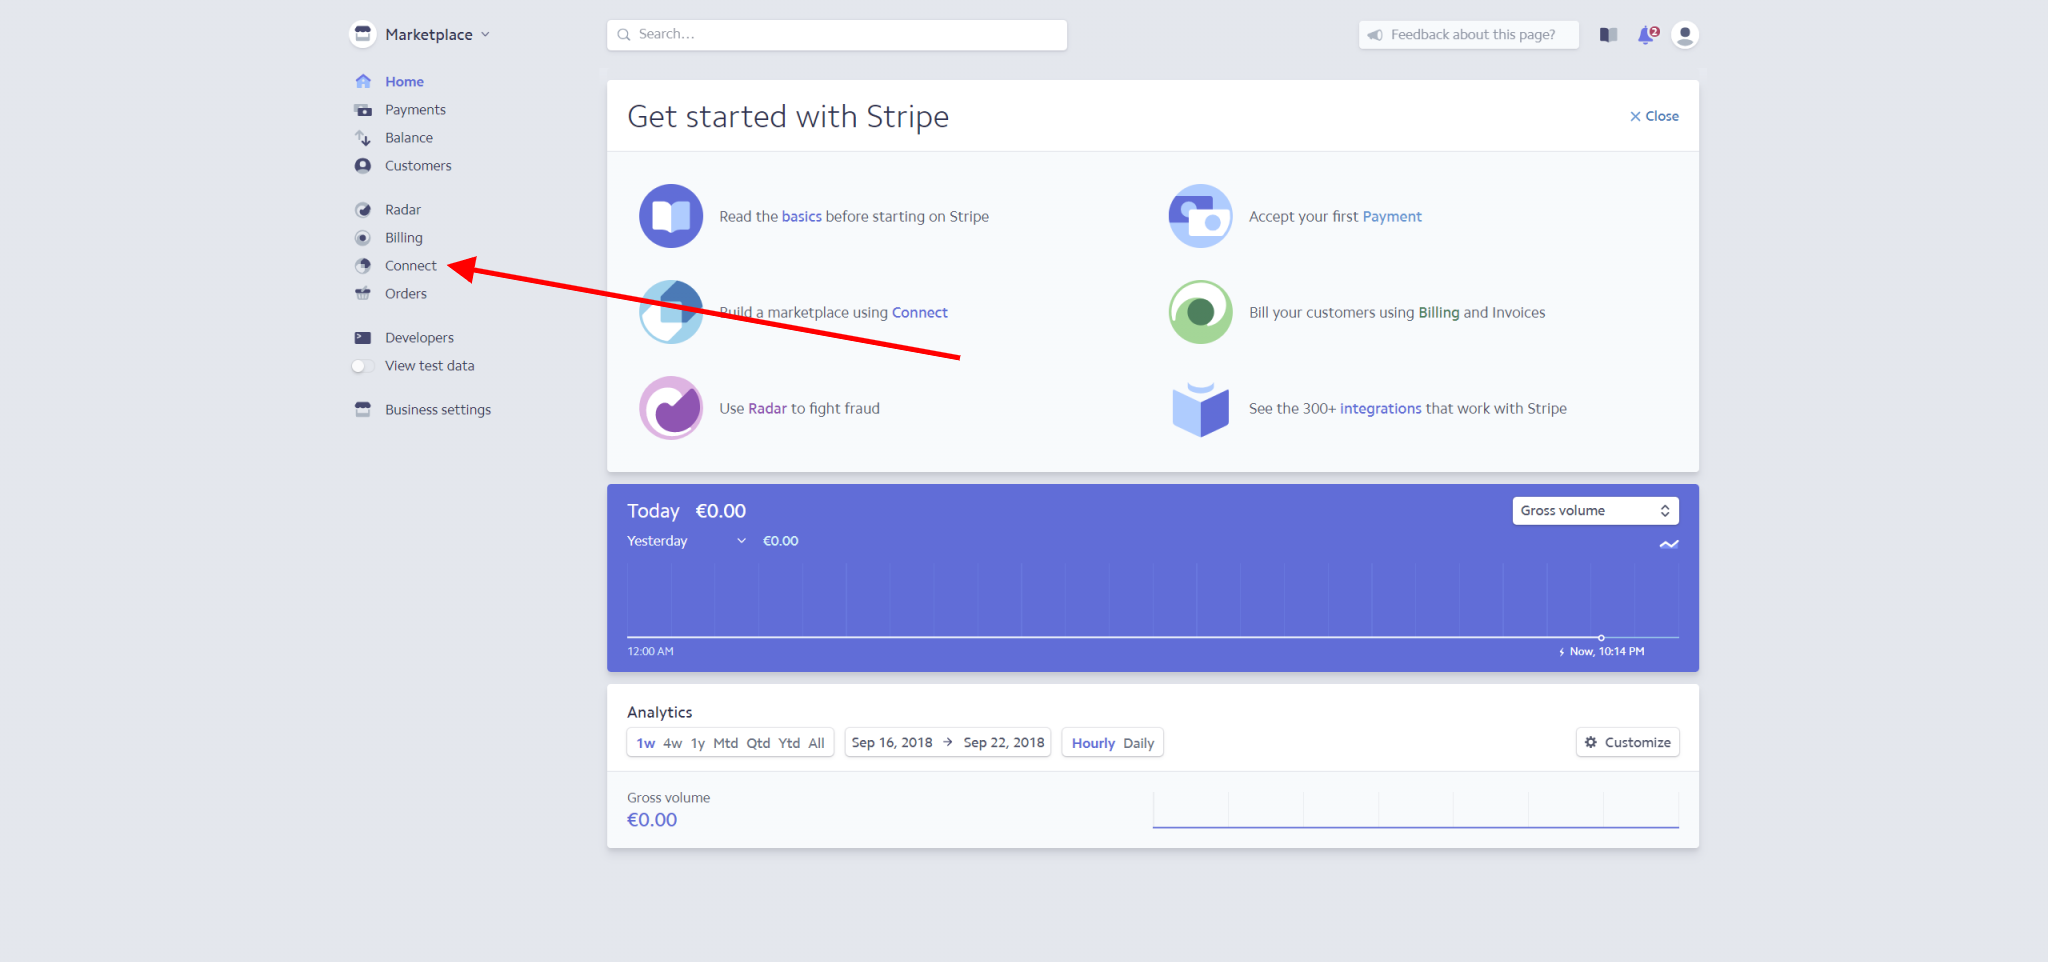
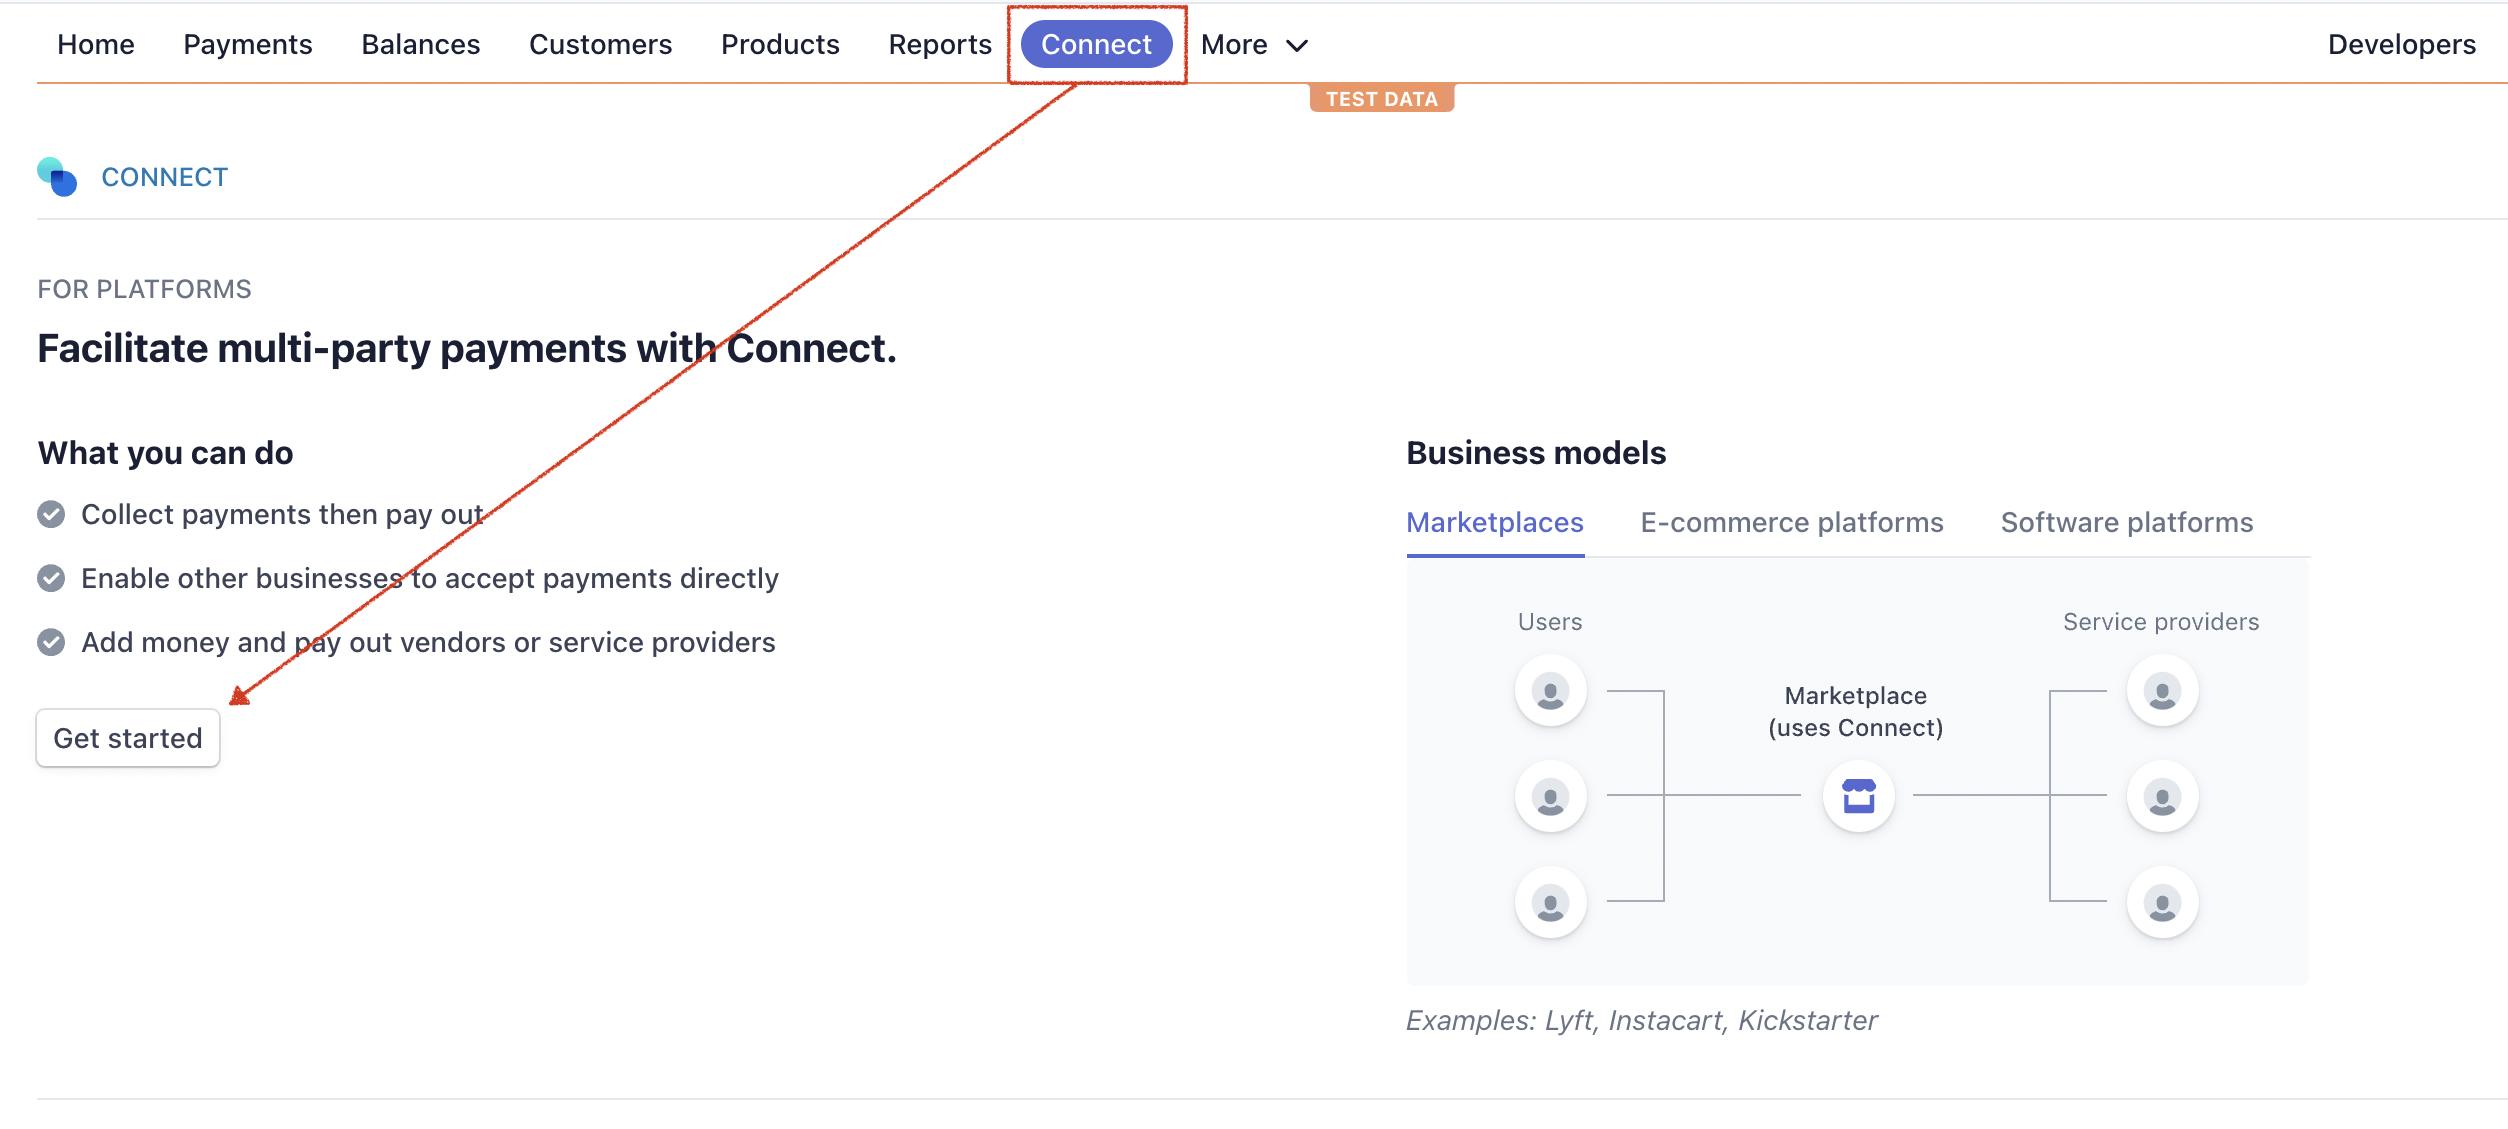
Update Stripe instruction visuals

diff --git a/src/docs/introduction/getting-started-with-ftw-daily/index.md b/src/docs/introduction/getting-started-with-ftw-daily/index.md
@@ -1,7 +1,7 @@
 ---
 title: Getting started
 slug: getting-started-with-ftw-daily
-updated: 2020-06-25
+updated: 2021-12-09
 category: introduction
 ingress:
   Learn how to install one of the Flex Templates for Web (FTW) to your
@@ -229,7 +229,7 @@ confirm your email address after the registration.
 As you will receive money from your users via your Stripe account, you
 have to provide some details such as your address and your bank account.
 In the Stripe dashboard, click the _"Activate your account"_ link in the
-left menu and fill in all the fields according to the instructions. The
+top bar and fill in all the fields according to the instructions. The
 activation form varies based on your country.
 
 ![Activate Stripe account](./stripe-activate-account.png)
@@ -258,32 +258,34 @@ to learn how to apply for Stripe Connect review.
 **Other countries**<br /> If you're in any another country, follow these
 instructions to enable Stripe Connect:
 
-1. Click the **Connect** left menu item.
+1. Click the **Connect** top menu item, and then click the **Get
+   Started** button.
 
    ![Stripe connect](./stripe-connect.png)
 
-1. Click the **Get started** button.
+2. Once a modal opens, select **Platform or marketplace** and click
+   **Continue**.
 
-   ![Get started](./stripe-get-started.png)
+   ![Activate Stripe Connect](./stripe-connect-activate.png)
 
-1. After a few seconds, you should see your Connect dashboard. From the
-   left sidebar, go to **Settings** then **Connect settings**, at
-   https://dashboard.stripe.com/settings
+3. Now when you click the gear icon on the top bar to go to **Settings**
+   at https://dashboard.stripe.com/settings, you will see a new
+   **Connect** section. Click **Settings** in that section.
 
-   ![Connect settings](./stripe-connect-settings.jpg)
+![Connect settings](./stripe-connect-settings.png)
 
-1. Make sure that **Custom** is enabled in the **Account types** section
+3. Make sure that **Custom** is enabled in the **Account types** section
 
-   ![Custom enabled](./stripe-custom-enabled.jpg)
+   ![Custom enabled](./stripe-custom-enabled.png)
 
 Great! You now have to get your API keys and input them into your
 marketplace.
 
 #### 3. Get your API keys from Stripe and add them to your Sharetribe marketplace
 
-- Click the _Developers_ left menu item and go to _Developers_ → _API
+- Click the _Developers_ top menu item and go to _Developers_ → _API
   Keys_.
-- In the section _"Standard API keys"_ you will see two keys:
+- In the section _"Standard keys"_ you will see two keys:
   - Publishable key
   - Secret key
 
@@ -308,7 +310,7 @@ and not **pk_live**\<somethinghere\>
 ![Add Stripe secret key to Console](./add-stripe-to-console.png)
 
 > **Note**: secret key and publishable key needs to match with each
-> others. You can't use publishable key from different Stripe account
+> other. You can't use a publishable key from a different Stripe account
 > than the secret key - or mix test keys and live keys.
 
 ### Mapbox Access Token
